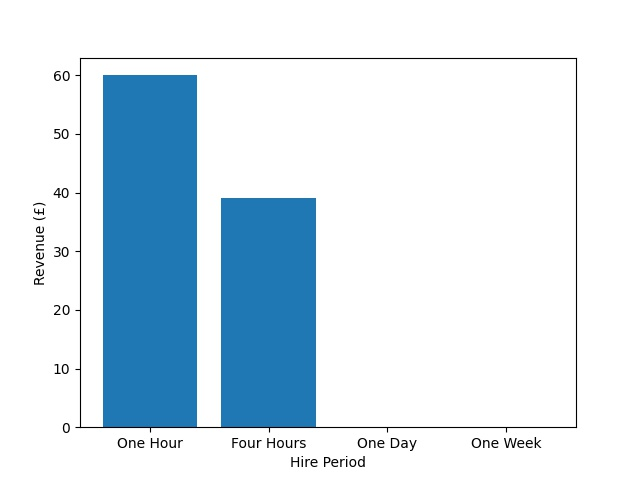
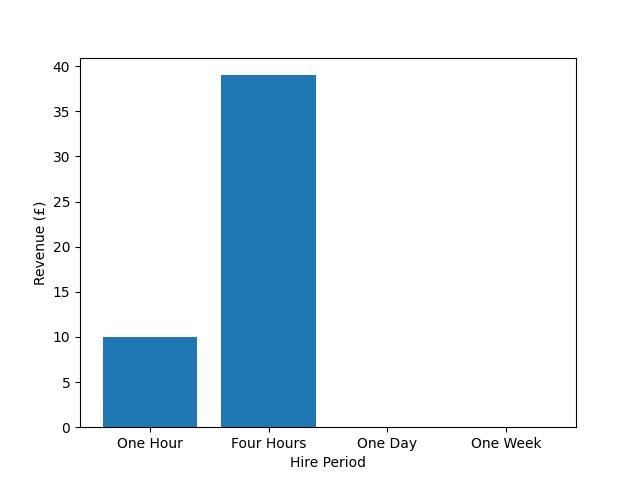
bug fixes for booking and after prelim demo

diff --git a/app/templates/admin_dashboard.html b/app/templates/admin_dashboard.html
@@ -15,6 +15,12 @@
 
         <div class="AD_row-2-column col">
             <div class="call-to-action-buttons">
+                <a href="/review_feedback"><button type="button" class="btn btn-primary AD_button">Review Feedback</button></a>
+            </div>
+        </div>
+
+        <div class="AD_row-2-column col">
+            <div class="call-to-action-buttons">
                 <a href="/view_scooters"><button type="button" class="btn btn-primary AD_button">View Scooters</button></a>
             </div>
         </div>
@@ -23,12 +29,6 @@
             <div class="AD_row-2-column col">
                 <div class="call-to-action-buttons">
                     <a href="/sales_metrics"><button type="button" class="btn btn-primary AD_button">Sales Metrics</button></a>
-                </div>
-            </div>
-
-            <div class="AD_row-2-column col">
-                <div class="call-to-action-buttons">
-                    <a href="/review_feedback"><button type="button" class="btn btn-primary AD_button">Review Feedback</button></a>
                 </div>
             </div>
 

diff --git a/app/templates/base.html b/app/templates/base.html
@@ -78,9 +78,9 @@
                 <li class="nav-item"><a class="nav-link" href="/admin_dashboard">Admin Dashboard</a></li>
                 <li class="nav-item"><a class="nav-link" href="/booking1">Make a Booking</a></li>
                 <li class="nav-item"><a class="nav-link" href="/review_feedback">Review Feedback</a></li>
+                <li class="nav-item"><a class="nav-link" href="/view_scooters">View Scooters</a></li>
                 {% if current_user.account_type == "manager" %}
                   <li class="nav-item"><a class="nav-link" href="/sales_metrics">Sales Metrics</a></li>
-                  <li class="nav-item"><a class="nav-link" href="/view_scooters">View Scooters</a></li>
                   <li class="nav-item"><a class="nav-link" href="/configure_costs">Configure Costs</a></li>
                 {% endif %}
                 <li class="nav-item"><a class="nav-link" href="/logout">Log Out</a></li>

diff --git a/app/templates/base2.html b/app/templates/base2.html
@@ -78,9 +78,9 @@
                 <li class="nav-item"><a class="nav-link" href="/admin_dashboard">Admin Dashboard</a></li>
                 <li class="nav-item"><a class="nav-link" href="/booking1">Make a Booking</a></li>
                 <li class="nav-item"><a class="nav-link" href="/review_feedback">Review Feedback</a></li>
+                <li class="nav-item"><a class="nav-link" href="/view_scooters">View Scooters</a></li>
                 {% if current_user.account_type == "manager" %}
                   <li class="nav-item"><a class="nav-link" href="/sales_metrics">Sales Metrics</a></li>
-                  <li class="nav-item"><a class="nav-link" href="/view_scooters">View Scooters</a></li>
                   <li class="nav-item"><a class="nav-link" href="/configure_costs">Configure Costs</a></li>
                 {% endif %}
                 <li class="nav-item"><a class="nav-link" href="/logout">Log Out</a></li>

diff --git a/app/templates/base_sales.html b/app/templates/base_sales.html
@@ -67,9 +67,9 @@
                 <li class="nav-item"><a class="nav-link" href="/admin_dashboard">Admin Dashboard</a></li>
                 <li class="nav-item"><a class="nav-link" href="/booking1">Make a Booking</a></li>
                 <li class="nav-item"><a class="nav-link" href="/review_feedback">Review Feedback</a></li>
+                <li class="nav-item"><a class="nav-link" href="/view_scooters">View Scooters</a></li>
                 {% if current_user.account_type == "manager" %}
                   <li class="nav-item"><a class="nav-link" href="/sales_metrics">Sales Metrics</a></li>
-                  <li class="nav-item"><a class="nav-link" href="/view_scooters">View Scooters</a></li>
                   <li class="nav-item"><a class="nav-link" href="/configure_costs">Configure Costs</a></li>
                 {% endif %}
                 <li class="nav-item"><a class="nav-link" href="/logout">Log Out</a></li>

diff --git a/app/templates/card.html b/app/templates/card.html
@@ -16,7 +16,7 @@
 
   </div>
   {% else %}
-  <form action="" method="post" name="unsavedbookingform">
+  <form action="" method="post" name="cardform">
     {{ form.csrf_token }}
     {{ form.hidden_tag() }}
       <p>

diff --git a/app/forms.py b/app/forms.py
@@ -64,15 +64,15 @@ class CardForm(FlaskForm):
     cvv = StringField('cvv', validators=[InputRequired(), Regexp("(^[0-9]*)$", message = "cvv must be a number"), Length(min=3, max=3, message="cvv must be 3 characters")])
     save_card_details = BooleanField('save_card_details')
 
-    def validate_expiry(self, expiry): # cards expire on the last day of the month
-        today = datetime.utcnow()
-
-        # get the last day of current month and the last day of the expiry month
-        last_day_of_current_month = today.replace(day = calendar.monthrange(expiry.data.year, expiry.data.month)[1])
-        last_day_of_card_month = expiry.data.replace(day = calendar.monthrange(expiry.data.year, expiry.data.month)[1])
-
-        if(last_day_of_card_month.date() < last_day_of_current_month.date()):
-            raise ValidationError('Expiry date is invalid! Card is expired!')
+    # def validate_expiry(self, expiry): # cards expire on the last day of the month
+    #     today = datetime.utcnow()
+    #
+    #     # get the last day of current month and the last day of the expiry month
+    #     last_day_of_current_month = today.replace(day = calendar.monthrange(expiry.data.year, expiry.data.month)[1])
+    #     last_day_of_card_month = expiry.data.replace(day = calendar.monthrange(expiry.data.year, expiry.data.month)[1])
+    #
+    #     if(last_day_of_card_month.date() < last_day_of_current_month.date()):
+    #         raise ValidationError('Expiry date is invalid! Card is expired!')
 
 
 # admin booking form
@@ -143,4 +143,4 @@ class EditFeedbackForm(FlaskForm):
 # configure prices form
 class PricesForm(FlaskForm):
     duration = SelectField('duration', choices=[('1', '1 hour'), ('2', '4 hour'), ('3', '1 day'), ('4', '1 week')], validators=[InputRequired()])
-    price = StringField('price', validators=[InputRequired(), Regexp("^[0-9]*$" ,message="Numerical value only")])
+    price = FloatField('price', validators=[InputRequired()])

diff --git a/app/views.py b/app/views.py
@@ -198,7 +198,9 @@ def card():
 
         if request.method == 'POST':
             #if the card details check out
+            print("Card form posted")
             if form.validate_on_submit():
+                print("Card form submitted")
                 logger.info("Card form successfully submitted")
                 if form.save_card_details.data: # if the user want to save the card details,  save information into database
                     hashed_card_num = bcrypt.generate_password_hash(form.card_number.data) # hash the card number
@@ -1519,8 +1521,8 @@ def sales_metrics():
     one_hour_metric, four_hour_metric, one_day_metric, one_week_metric = 0, 0, 0, 0
     # calculate the date range needed
     date = datetime.utcnow()
-    week_start = date + timedelta(-date.weekday(), weeks=0)
-    week_end = date + timedelta(-date.weekday() + 6, weeks=0)
+    week_start = date + timedelta(-date.weekday(), weeks=-1)
+    week_end = date + timedelta(-date.weekday() + 6, weeks=-1)
 
     # get all the transations
     transactions = models.transactions.query.all()
@@ -1588,8 +1590,8 @@ def sales_metrics():
         if(transaction.user != None):
             if(transaction.user.user_type == "student" or transaction.user.user_type == "senior"): # if the transaction is a discounted transaction
                 discounted_transactions += 1
-        else:
-            normal_transactions += 1
+            else:
+                normal_transactions += 1
 
     # Graph the discounted vs undiscounted transactions
     plt.bar([0,1], [discounted_transactions, normal_transactions], tick_label=['Discounted transactions', 'Normal transactions'])
